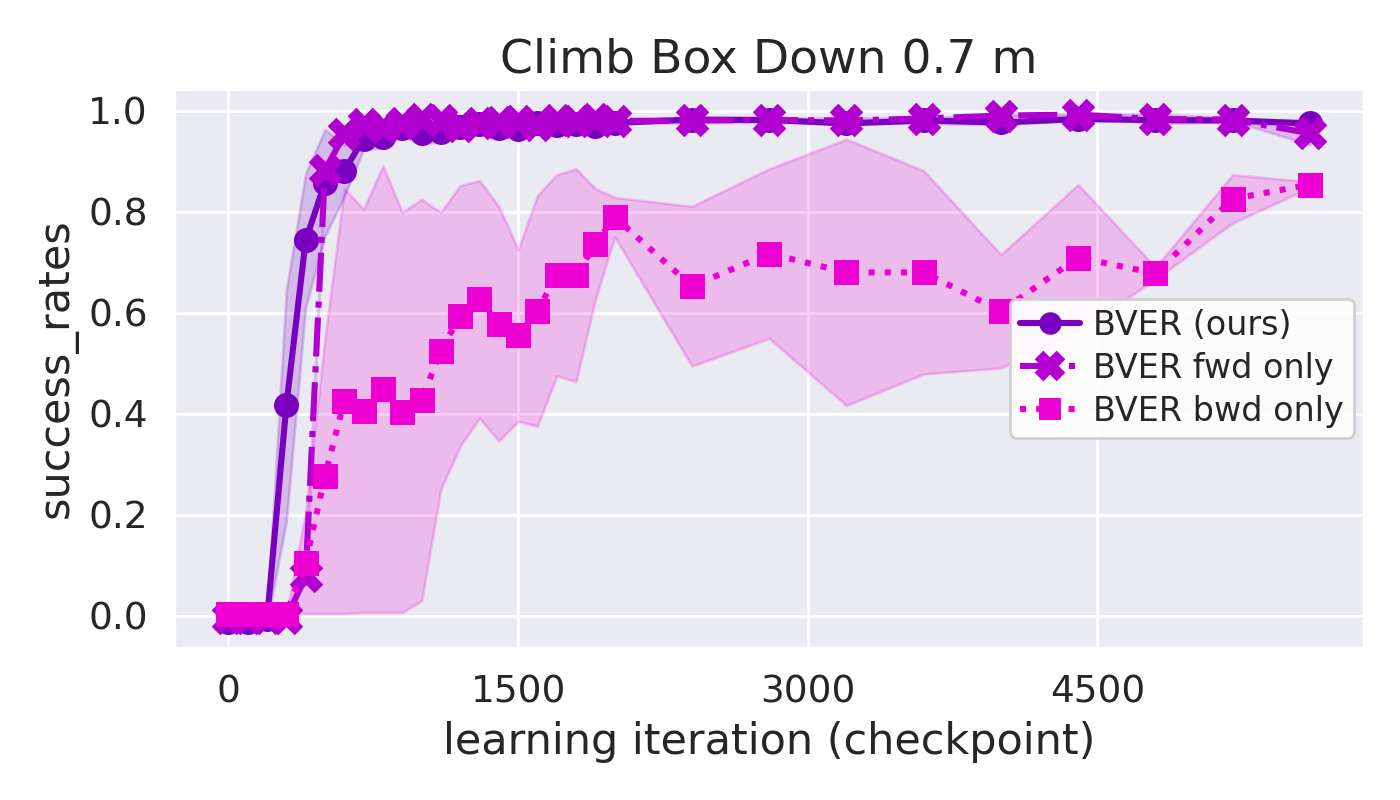
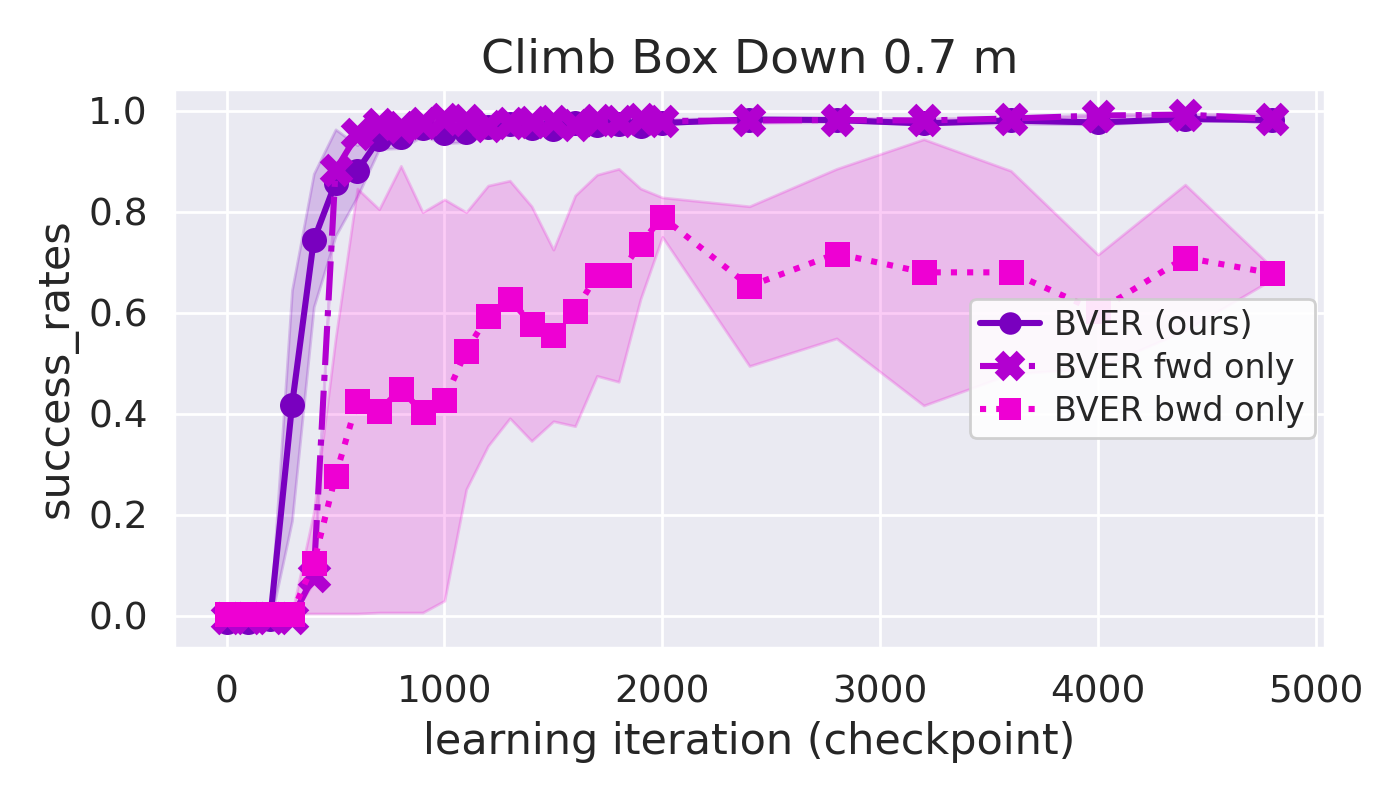
Updates figure readability

diff --git a/iclr/sections/05_experiments.tex b/iclr/sections/05_experiments.tex
@@ -49,6 +49,34 @@ We evaluate the trained policies on (1) perturbations to the yaw-angle used in t
 
 \subsection{Ablations: Forwards / Backwards Symmetry}\label{sec:exp_ablations}
 
+\begin{wrapfigure}{r}{0.6\linewidth}
+    \centering
+    \vspace{-\baselineskip}
+    \begin{subfigure}[b]{0.48\linewidth}
+        \centering
+        \includegraphics[width=\linewidth]{img/sb/eval_comparison_41_up_ours.png}
+        \caption{Climb 0.4 m box up.}\label{fig:eval_comparison_41_up_ours}
+    \end{subfigure}
+    \hfill
+    \begin{subfigure}[b]{0.48\linewidth}
+        \centering
+        \includegraphics[width=\linewidth]{img/sb/eval_comparison_72_up_ours.png}
+        \caption{Climb 0.7 m box up.}\label{fig:eval_comparison_72_up_ours}
+    \end{subfigure}
+    \\[1ex]
+    \begin{subfigure}[b]{0.48\linewidth}
+        \centering
+        \includegraphics[width=\linewidth]{img/sb/eval_comparison_41_down_ours.png}
+        \caption{Climb 0.4 m box down.}\label{fig:eval_comparison_41_down_ours}
+    \end{subfigure}
+    \hfill
+    \begin{subfigure}[b]{0.48\linewidth}
+        \centering
+        \includegraphics[width=\linewidth]{img/sb/eval_comparison_72_down_ours.png}
+        \caption{Climb 0.7 m box down.}\label{fig:eval_comparison_72_down_ours}
+    \end{subfigure}
+    \caption{Ablations on the box climbing task show that combining forward and backward expansions leads to the best results irrespective of direction (up or down) and box height.}\label{fig:eval_ablations}
+\end{wrapfigure}
 \paragraph{Box Climbing Ablations:}
 We evaluate the effect of the bidirectional expansion mechanism by comparing BVER on two symmetric climbing tasks (up and down) against its unidirectional variants, i.e.\ only expanding the curriculum from the start state (forwards expansion) or only expanding the curriculum from the goal state (backwards expansion). The results in Figure~\ref{fig:eval_ablations} show that combining forward and backward expansions leads to the best results irrespective of the task (up or down) and box height. In both tasks, the expansion that starts on top of the box performs better than the one that starts on the ground. This is likely due to the fact that the random walks are subject to gravity and thus traversing down the box edge is more likely than traversing up the box edge.
 % TODO: 
@@ -56,36 +84,6 @@ We evaluate the effect of the bidirectional expansion mechanism by comparing BVE
 % - use 3 different colors
 % - make x axes equal
 % - make them smaller and more visible
-\begin{figure}[h]
-    \centering
-    \hfill
-    \begin{subfigure}[b]{0.3\linewidth}
-        \centering
-        \includegraphics[width=\linewidth]{img/sb/eval_comparison_41_up_ours.png}
-        \caption{Climb 0.4 m box up.}\label{fig:eval_comparison_41_up_ours}
-    \end{subfigure}
-    \hfill
-    \begin{subfigure}[b]{0.3\linewidth}
-        \centering
-        \includegraphics[width=\linewidth]{img/sb/eval_comparison_72_up_ours.png}
-        \caption{Climb 0.7 m box up.}\label{fig:eval_comparison_72_up_ours}
-    \end{subfigure}
-    \hfill\strut{}\\
-    \hfill
-    \begin{subfigure}[b]{0.3\linewidth}
-        \centering
-        \includegraphics[width=\linewidth]{img/sb/eval_comparison_41_down_ours.png}
-        \caption{Climb 0.4 m box down.}\label{fig:eval_comparison_41_down_ours}
-    \end{subfigure}
-    \hfill
-    \begin{subfigure}[b]{0.3\linewidth}
-        \centering
-        \includegraphics[width=\linewidth]{img/sb/eval_comparison_72_down_ours.png}
-        \caption{Climb 0.7 m box down.}\label{fig:eval_comparison_72_down_ours}
-    \end{subfigure}
-    \hfill\strut{}
-    \caption{Ablations on the box climbing task show that combining forward and backward expansions leads to the best results irrespective of direction (up or down) and box height.}\label{fig:eval_ablations}
-\end{figure}
 
 \paragraph{Maze Ablations}\label{sec:exp_ablations_maze}
 To evaluate the contribution of individual components of BVER we conduct further ablation studies on three maze environments similar to what is used in~\citep{florensa2017reverse,cho2023outcome}. First, we evaluate the effect of our curriculum against a baseline that does not use any curriculum and a simple curriculum that samples intermediate goals (to reach from the start) and intermediate starts (from which to reach the target goal) randomly from the free space. The results in Figure~\ref{fig:eval_comparison_u_maze_bench},\ref{fig:eval_comparison_N_maze_bench}, and~\ref{fig:eval_comparison_large_maze_bench} show that a either curriculum enables finding solutions in all three environments. In the more complex N-maze and large-maze environments, BVER shows faster convergence than the random curriculum.
@@ -94,62 +92,62 @@ Similar to the box climbing experiments, we compare using only the forwards expa
 \begin{figure}[h]
     \centering
     \hfill
-    \begin{subfigure}[b]{0.3\linewidth}
+    \begin{subfigure}[b]{0.26\linewidth}
         \centering
         \includegraphics[width=\linewidth]{img/maze/u/eval_comparison_u_maze_bench.png}
-        \caption{U-maze benchmark.}\label{fig:eval_comparison_u_maze_bench}
+        \caption{Benchmark.}\label{fig:eval_comparison_u_maze_bench}
     \end{subfigure}
     \hfill
-    \begin{subfigure}[b]{0.3\linewidth}
+    \begin{subfigure}[b]{0.26\linewidth}
         \centering
         \includegraphics[width=\linewidth]{img/maze/u/eval_comparison_u_maze_abl_dir.png}
-        \caption{U-maze direction ablation.}\label{fig:eval_comparison_u_maze_abl_dir}
+        \caption{Direction ablation.}\label{fig:eval_comparison_u_maze_abl_dir}
     \end{subfigure}
     \hfill
-    \begin{subfigure}[b]{0.3\linewidth}
+    \begin{subfigure}[b]{0.26\linewidth}
         \centering
         \includegraphics[width=\linewidth]{img/maze/u/eval_comparison_u_maze_abl_connect.png}
-        \caption{U-maze connect ablation.}\label{fig:eval_comparison_u_maze_abl_connect}
+        \caption{Connect ablation.}\label{fig:eval_comparison_u_maze_abl_connect}
     \end{subfigure}
     %
     \hfill\strut{}\\
     \hfill
-    \begin{subfigure}[b]{0.3\linewidth}
+    \begin{subfigure}[b]{0.26\linewidth}
         \centering
         \includegraphics[width=\linewidth]{img/maze/N/eval_comparison_N_maze_bench.png}
-        \caption{N-maze benchmark.}\label{fig:eval_comparison_N_maze_bench}
+        \caption{Benchmark.}\label{fig:eval_comparison_N_maze_bench}
     \end{subfigure}
     \hfill
-    \begin{subfigure}[b]{0.3\linewidth}
+    \begin{subfigure}[b]{0.26\linewidth}
         \centering
         \includegraphics[width=\linewidth]{img/maze/N/eval_comparison_N_maze_abl_dir.png}
-        \caption{N-maze direction ablation.}\label{fig:eval_comparison_N_maze_abl_dir}
+        \caption{Direction ablation.}\label{fig:eval_comparison_N_maze_abl_dir}
     \end{subfigure}
     \hfill
-    \begin{subfigure}[b]{0.3\linewidth}
+    \begin{subfigure}[b]{0.26\linewidth}
         \centering
         \includegraphics[width=\linewidth]{img/maze/N/eval_comparison_N_maze_abl_connect.png}
-        \caption{N-maze connect ablation.}\label{fig:eval_comparison_N_maze_abl_connect}
+        \caption{Connect ablation.}\label{fig:eval_comparison_N_maze_abl_connect}
     \end{subfigure}
     \hfill\strut{}\\
     %
     \hfill
-    \begin{subfigure}[b]{0.3\linewidth}
+    \begin{subfigure}[b]{0.26\linewidth}
         \centering
         \includegraphics[width=\linewidth]{img/maze/large/eval_comparison_large_maze_bench.png}
-        \caption{Large-maze benchmark.}\label{fig:eval_comparison_large_maze_bench}
+        \caption{Benchmark.}\label{fig:eval_comparison_large_maze_bench}
     \end{subfigure}
     \hfill
-    \begin{subfigure}[b]{0.3\linewidth}
+    \begin{subfigure}[b]{0.26\linewidth}
         \centering
         \includegraphics[width=\linewidth]{img/maze/large/eval_comparison_large_maze_abl_dir.png}
-        \caption{Large-maze direction abl.}\label{fig:eval_comparison_large_maze_abl_dir}
+        \caption{Direction ablation.}\label{fig:eval_comparison_large_maze_abl_dir}
     \end{subfigure}
     \hfill
-    \begin{subfigure}[b]{0.3\linewidth}
+    \begin{subfigure}[b]{0.26\linewidth}
         \centering
         \includegraphics[width=\linewidth]{img/maze/large/eval_comparison_large_maze_abl_connect.png}
-        \caption{Large-maze connect ablation.}\label{fig:eval_comparison_large_maze_abl_connect}
+        \caption{Connect ablation.}\label{fig:eval_comparison_large_maze_abl_connect}
     \end{subfigure}
     \hfill\strut{}
     \caption{Ablations of connect ratio and directionality on three different mazes.}\label{fig:eval_maze_ablations}
